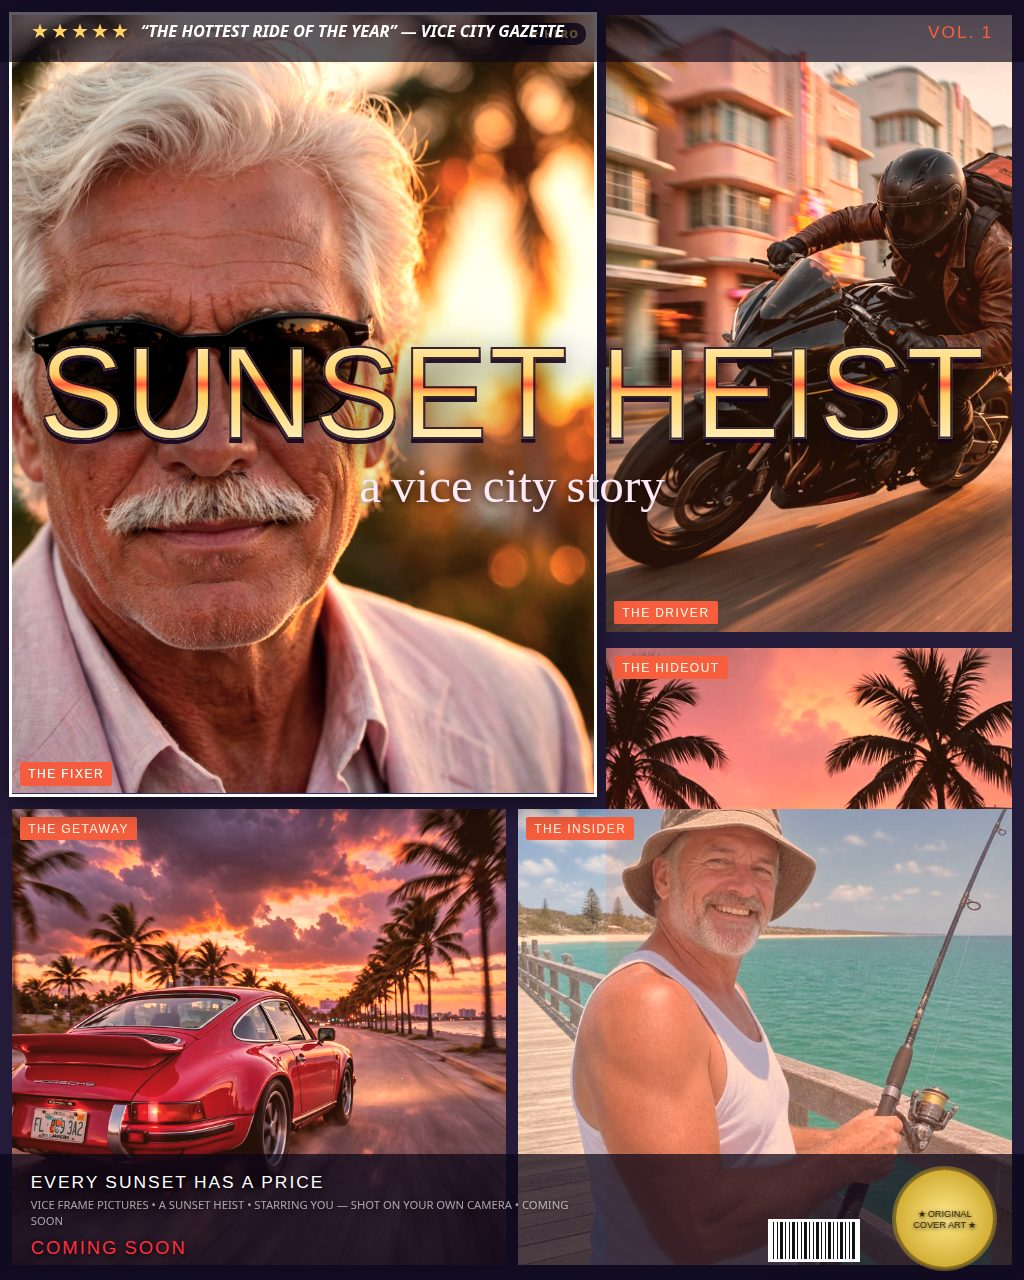
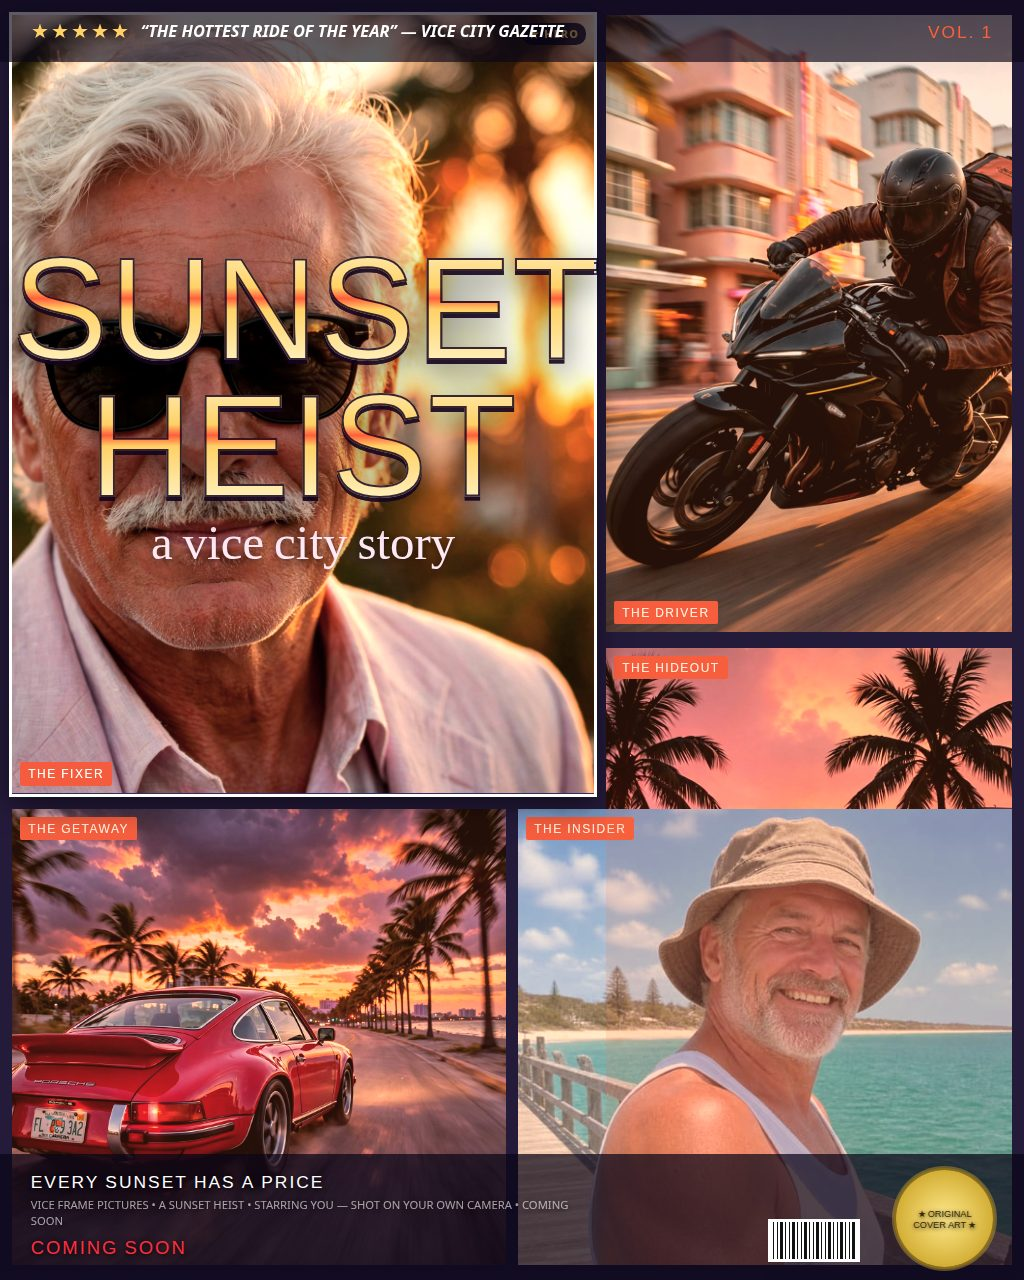
Vice Frame round 5 fix: stacked hero title + centred INSIDER face
- Title: a two-word caption now stacks as two lines (titleLayout,
  shared by the DOM preview and the canvas export), each sized to the
  hero panel and centred on it, so SUNSET HEIST reads inside the hero
  instead of straddling the gap to the courier panel.
- INSIDER: the pier sample ships with its face-aware focus pinned on
  the fisherman's face (fx 0.36, fy 0.25, zoom 1.35) — the energy
  heuristic scored the turquoise sea higher, so the face was cropped
  out; the focus sits so the smile clears the furniture band in the
  wide cover. All four screenshots regenerated and visually checked.

Changed region(s): [[0.0, 0.1875, 0.9688, 0.4688], [0.5, 0.625, 1.0, 1.0]]

diff --git a/app/src/render.js b/app/src/render.js
@@ -29,6 +29,49 @@ export function coverPanels(state, W, H) {
   }));
 }
 
+// Title geometry, shared by the DOM preview and the canvas export so
+// both draw the same title. A two-word caption stacks as two lines,
+// each sized to the hero panel and centred on it, so the whole title
+// reads inside one panel instead of straddling the gap between two.
+// A caption of any other length keeps the old single line across the
+// cover. Returns the lines, the font size, the centre x, each line's
+// centre y, the subtitle's y and size, and the band box (top + height).
+function titleLayout(state, W, H) {
+  const caption = (state.caption || 'SUNSET HEIST').toUpperCase();
+  const words = caption.split(/\s+/).filter(Boolean);
+  const panels = coverPanels(state, W, H);
+  const hero = panels.find((p) => p.hero);
+  if (words.length === 2 && hero) {
+    const longest = Math.max(words[0].length, words[1].length);
+    const lineH = 0.95;
+    const subK = 0.34;
+    const blockK = 2 * lineH + subK * 1.1;
+    // The block must fit between the top bar and the hero's base.
+    const availH = hero.py + hero.ph - H * 0.09;
+    const size = Math.min(
+      W * 0.16,
+      (hero.pw * 0.92) / (longest * 0.62),
+      availH / blockK,
+    );
+    const lh = size * lineH;
+    const subSize = size * subK;
+    const blockH = 2 * lh + subSize * 1.1;
+    const top = Math.max(H * 0.09, hero.py + hero.ph / 2 - blockH / 2);
+    return {
+      lines: words, size, cx: hero.px + hero.pw / 2,
+      lineY: [top + lh / 2, top + lh * 1.5],
+      subY: top + 2 * lh + subSize * 0.6, subSize,
+      bandTop: top, bandH: blockH,
+    };
+  }
+  const size = Math.min(W * 0.16, (W * 0.94) / Math.max(4, caption.length * 0.62));
+  return {
+    lines: [caption], size, cx: W / 2,
+    lineY: [H * 0.44], subY: H * 0.44 + size * 0.62, subSize: size * 0.38,
+    bandTop: H * 0.33, bandH: 0,
+  };
+}
+
 // --- DOM preview -------------------------------------------------------
 
 // Build (or rebuild) the cover preview inside coverEl. coverEl keeps the
@@ -98,20 +141,33 @@ export function renderCoverDOM(coverEl, state, images) {
     `<span class="vol-badge">${escapeHtml(state.volume || 'VOL. 1')}</span>`;
   coverEl.appendChild(top);
 
-  // The title, huge and central, overlapping the panels.
-  const titleSize = Math.min(W * 0.16, (W * 0.94) / Math.max(4, (state.caption || 'SUNSET HEIST').length * 0.62));
+  // The title, huge and central, overlapping the panels: a two-word
+  // caption stacks as two lines inside the hero panel (see titleLayout).
+  const tl = titleLayout(state, W, H);
   const band = document.createElement('div');
   band.className = 'title-band';
-  band.style.top = `${H * 0.33}px`;
-  const title = document.createElement('div');
-  title.className = 'cover-title';
-  title.style.fontSize = `${titleSize}px`;
-  title.textContent = (state.caption || 'SUNSET HEIST').toUpperCase();
+  if (tl.lines.length === 2) {
+    // Two-line title: the band sits over the hero panel, centred on the
+    // block titleLayout computed, so the title never straddles a gap.
+    const hero = coverPanels(state, W, H).find((p) => p.hero);
+    band.style.left = `${hero.px}px`;
+    band.style.right = 'auto';
+    band.style.width = `${hero.pw}px`;
+    band.style.top = `${tl.bandTop + tl.bandH / 2}px`;
+  } else {
+    band.style.top = `${H * 0.33}px`;
+  }
+  for (const line of tl.lines) {
+    const title = document.createElement('div');
+    title.className = 'cover-title';
+    title.style.fontSize = `${tl.size}px`;
+    title.textContent = line;
+    band.appendChild(title);
+  }
   const sub = document.createElement('div');
   sub.className = 'cover-sub';
-  sub.style.fontSize = `${titleSize * 0.38}px`;
+  sub.style.fontSize = `${tl.subSize}px`;
   sub.textContent = state.subtitle || '';
-  band.appendChild(title);
   band.appendChild(sub);
   coverEl.appendChild(band);
 
@@ -228,34 +284,38 @@ export function drawCoverToCanvas(state, images, W, H) {
 
   // The title, huge and central, overlapping the panels: striped chrome
   // with a heavy outline and a 3D drop, so it reads at thumbnail size.
-  const title = (state.caption || 'SUNSET HEIST').toUpperCase();
-  const titleSize = Math.min(W * 0.16, (W * 0.94) / Math.max(4, title.length * 0.62));
-  const cy = H * 0.44;
+  // A two-word caption stacks as two lines inside the hero panel.
+  const tl = titleLayout(state, W, H);
+  const titleSize = tl.size;
   ctx.textAlign = 'center';
   ctx.textBaseline = 'middle';
   ctx.font = `${Math.round(titleSize)}px Anton, sans-serif`;
-  // 3D depth: dark copies stacked below.
-  ctx.fillStyle = 'rgba(20, 4, 30, 0.9)';
-  for (let d = 9; d >= 3; d -= 3) {
-    ctx.fillText(title, W / 2, cy + d);
+  for (let i = 0; i < tl.lines.length; i++) {
+    const line = tl.lines[i];
+    const cy = tl.lineY[i];
+    // 3D depth: dark copies stacked below.
+    ctx.fillStyle = 'rgba(20, 4, 30, 0.9)';
+    for (let d = 9; d >= 3; d -= 3) {
+      ctx.fillText(line, tl.cx, cy + d);
+    }
+    // Striped chrome fill: hard-stop gradient bands (gold / pink / gold).
+    const stripe = ctx.createLinearGradient(0, cy - titleSize / 2, 0, cy + titleSize / 2);
+    stripe.addColorStop(0, '#fff8d6');
+    stripe.addColorStop(0.42, '#ffd166');
+    stripe.addColorStop(0.5, '#ff5e3a');
+    stripe.addColorStop(0.58, '#ffd166');
+    stripe.addColorStop(1, '#fff3c4');
+    ctx.fillStyle = stripe;
+    ctx.fillText(line, tl.cx, cy);
+    ctx.lineWidth = Math.max(2, titleSize * 0.035);
+    ctx.strokeStyle = 'rgba(20,4,30,0.9)';
+    ctx.strokeText(line, tl.cx, cy);
   }
-  // Striped chrome fill: hard-stop gradient bands (gold / pink / gold).
-  const stripe = ctx.createLinearGradient(0, cy - titleSize / 2, 0, cy + titleSize / 2);
-  stripe.addColorStop(0, '#fff8d6');
-  stripe.addColorStop(0.42, '#ffd166');
-  stripe.addColorStop(0.5, '#ff5e3a');
-  stripe.addColorStop(0.58, '#ffd166');
-  stripe.addColorStop(1, '#fff3c4');
-  ctx.fillStyle = stripe;
-  ctx.fillText(title, W / 2, cy);
-  ctx.lineWidth = Math.max(2, titleSize * 0.035);
-  ctx.strokeStyle = 'rgba(20,4,30,0.9)';
-  ctx.strokeText(title, W / 2, cy);
 
   if (state.subtitle) {
-    ctx.font = `${Math.round(titleSize * 0.4)}px Yellowtail, cursive`;
+    ctx.font = `${Math.round(tl.subSize)}px Yellowtail, cursive`;
     ctx.fillStyle = grade.ink;
-    ctx.fillText(state.subtitle, W / 2, cy + titleSize * 0.62);
+    ctx.fillText(state.subtitle, tl.cx, tl.subY);
   }
 
   // Bottom furniture band: tagline, billing, COMING SOON, barcode, rosette.

diff --git a/app/src/main.js b/app/src/main.js
@@ -16,7 +16,13 @@ export const SAMPLES = [
   { file: 'courier.jpg', name: 'Courier', role: 'THE DRIVER' },
   { file: 'neon.jpg', name: 'Neon Street', role: 'THE HIDEOUT' },
   { file: 'getaway.jpg', name: 'Getaway', role: 'THE GETAWAY' },
-  { file: 'pier.jpg', name: 'Pier', role: 'THE INSIDER' },
+  // The pier photo's face sits upper-left, but the energy heuristic
+  // scores the turquoise sea higher, so this sample ships with its focus
+  // pinned on the fisherman's face (and a tighter zoom) instead of the
+  // heuristic's guess — the face stays centred and fully in frame. The
+  // focus sits a touch below the face's centre so that, in the wide
+  // cover, the smile clears the bottom furniture band.
+  { file: 'pier.jpg', name: 'Pier', role: 'THE INSIDER', focus: { fx: 0.36, fy: 0.25 }, zoom: 1.35 },
   { file: 'boulevard.jpg', name: 'Boulevard', role: 'OCEAN DRIVE' },
 ];
 
@@ -37,8 +43,11 @@ export function freshState() {
     selected: 0,
     panels: SAMPLES.map((s) => ({
       photo: `samples/${s.file}`,
-      focus: defaultFocus(),
-      zoom: 1,
+      // A sample with a pinned focus keeps it; the rest get the
+      // face-aware crop in ensureAll (focusSet marks the pinned ones).
+      focus: s.focus ?? defaultFocus(),
+      focusSet: Boolean(s.focus),
+      zoom: s.zoom ?? 1,
       role: s.role,
     })),
   };
@@ -177,6 +186,11 @@ function buildPickers() {
       const slot = state.panels[state.selected];
       slot.photo = `samples/${s.file}`;
       slot.role = s.role;
+      if (s.focus) {
+        slot.focus = s.focus;
+        slot.focusSet = true;
+        slot.zoom = s.zoom ?? 1;
+      }
       await ensureImage(slot.photo).catch(() => null);
       redraw();
     });
@@ -320,8 +334,9 @@ function buildUpload() {
     state.panels.forEach((p, i) => {
       p.photo = `samples/${SAMPLES[i].file}`;
       p.role = SAMPLES[i].role;
-      p.focus = defaultFocus();
-      p.zoom = 1;
+      p.focus = SAMPLES[i].focus ?? defaultFocus();
+      p.focusSet = Boolean(SAMPLES[i].focus);
+      p.zoom = SAMPLES[i].zoom ?? 1;
     });
     await ensureAll();
     redraw();
